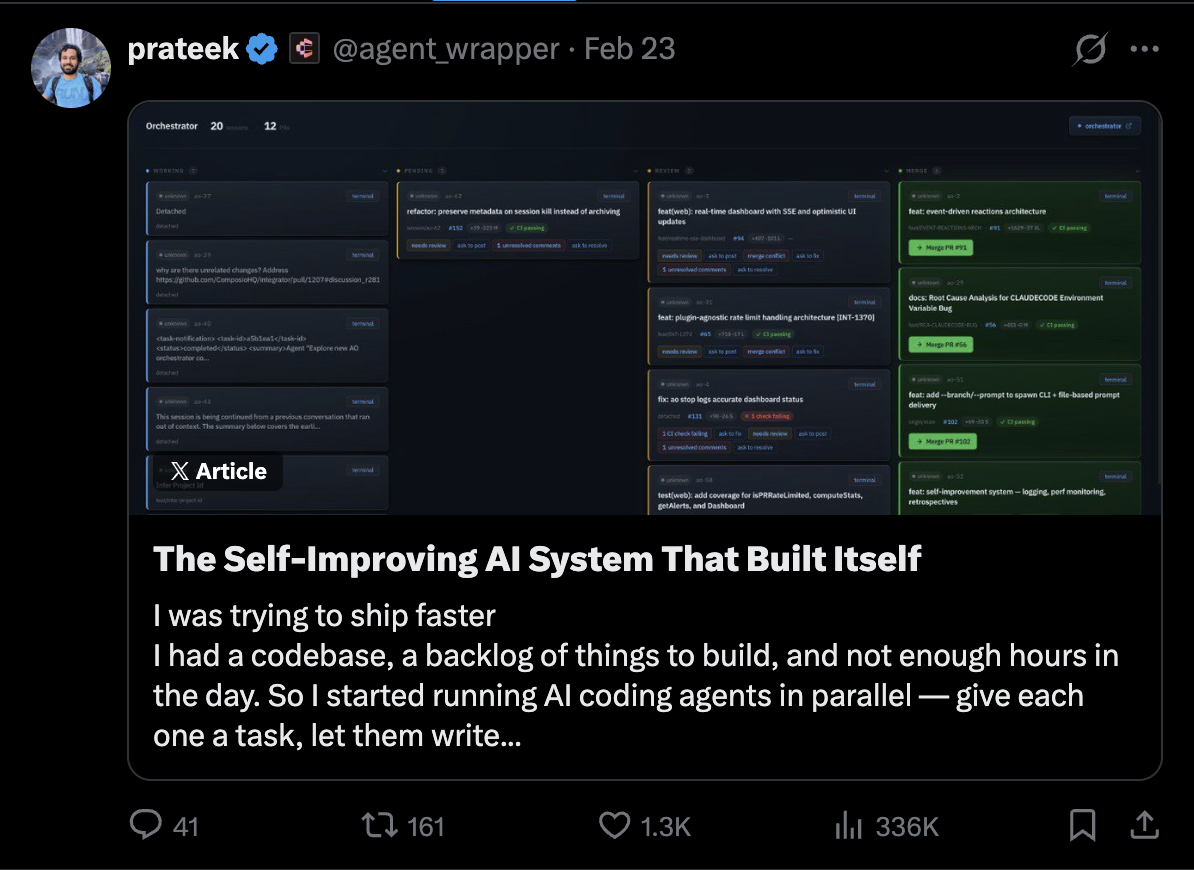
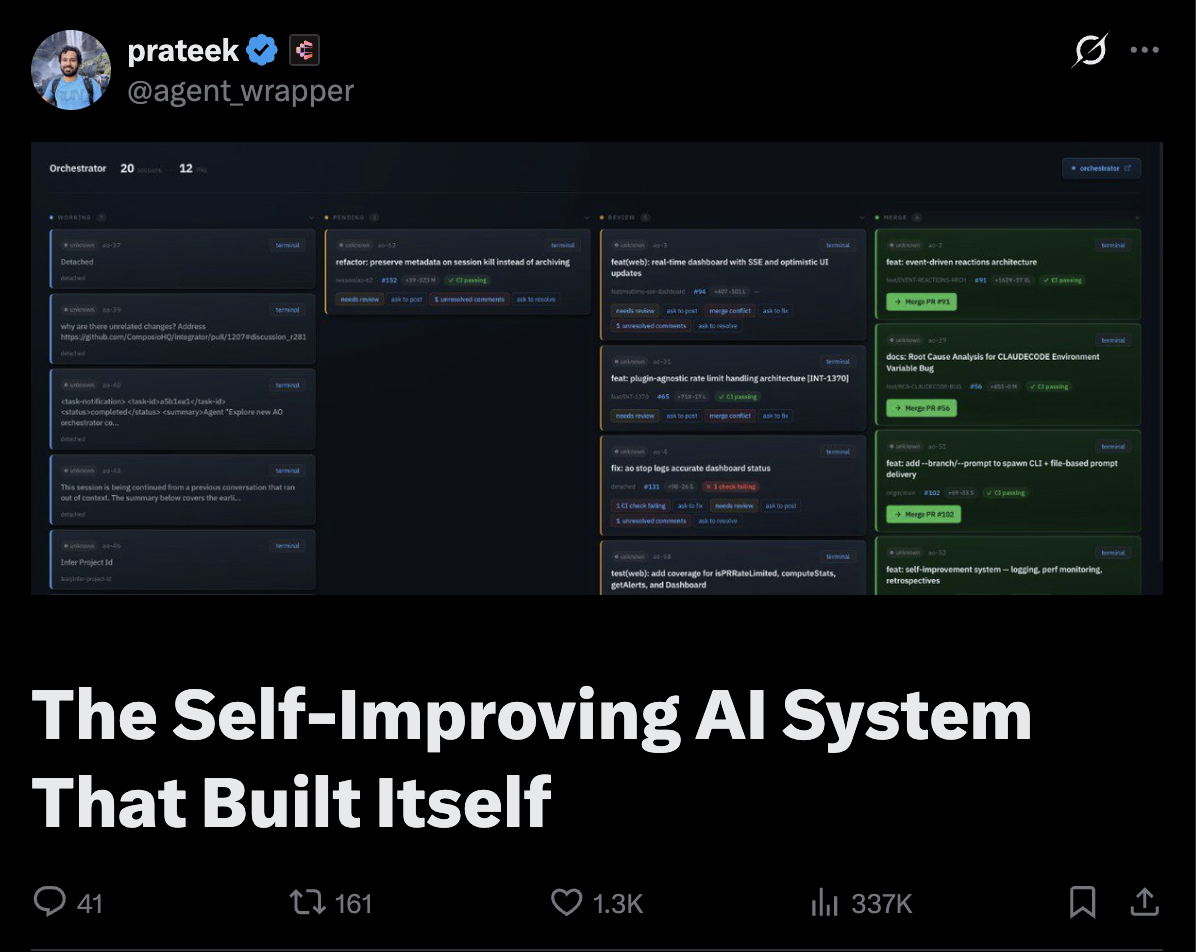
Update article screenshot and make CTA buttons prominent (#208)
* docs: add demo video and article links to README

Add tweet screenshot for the video demo prominently after the intro,
and link to the full article thread. Replaces the TODO placeholder.

* docs: use article screenshot for README article link

Replace text-only article link with clickable screenshot showing
the article title, preview image, and engagement stats.

* docs: replace demo video screenshot with higher quality version

* docs: update article screenshot and make CTAs more prominent

- Replace article screenshot with cleaner version showing title/preview
- Replace small <sub> text links with shields.io badge-style buttons
  for "Watch the demo on X" and "Read the full article on X"

---------

diff --git a/README.md b/README.md
@@ -25,7 +25,7 @@ Agent Orchestrator manages fleets of AI coding agents working in parallel on you
   <img src="docs/assets/demo-video-tweet.png" alt="Agent Orchestrator demo — AI agents building their own orchestrator" width="560">
 </a>
 
-<sub>512 likes · 48 replies · <a href="https://x.com/agent_wrapper/status/2026329204405723180">Watch the demo on X</a></sub>
+<a href="https://x.com/agent_wrapper/status/2026329204405723180"><img src="https://img.shields.io/badge/%E2%96%B6%EF%B8%8F_Watch_the_demo_on_X-black?style=for-the-badge&logo=x&logoColor=white" alt="Watch the demo on X"></a>
 
 </div>
 
@@ -35,7 +35,7 @@ Agent Orchestrator manages fleets of AI coding agents working in parallel on you
   <img src="docs/assets/article-tweet.png" alt="The Self-Improving AI System That Built Itself" width="560">
 </a>
 
-<sub>1.3K likes · 41 replies · <a href="https://x.com/agent_wrapper/status/2025986105485733945">Read the full article on X</a></sub>
+<a href="https://x.com/agent_wrapper/status/2025986105485733945"><img src="https://img.shields.io/badge/%F0%9F%93%96_Read_the_full_article_on_X-black?style=for-the-badge&logo=x&logoColor=white" alt="Read the full article on X"></a>
 
 </div>
 
